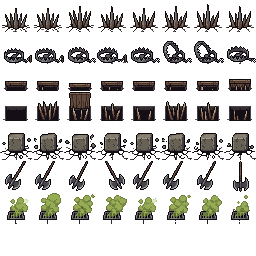
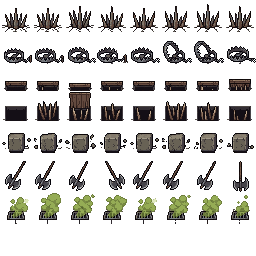
Fällor lite längre ner, stenblocket utan sprickor under
Claude-Session: https://claude.ai/code/session_018ajE8D2FggpF2yZQRYB5KY

Changed region(s): [[0.0, 0.5625, 1.0, 0.625]]

diff --git a/grafik.js b/grafik.js
@@ -134,7 +134,7 @@ G.ritaScen = (canvas, miljoId, fiender, fro, extra, hjaltar, npcer) => {
   if(extra==="resa") sak(sb, 27, 74, 50, 26);                                   // vägvisare vid vägen
   // fällan som just slagit till: en av sex sorter ur npc/fallor.png (spikar, björnsax, fallucka, stenblock, pendelyxa, giftgas)
   if(extra==="falla"){ const fi = G.npcBild("fallor"), [r,x0,x1,y1] = FALLOR_RUTOR[Math.floor(slump((fro||7)*31+5)()*FALLOR_RUTOR.length)];
-    const fx = Math.round(98 - (x0+x1)/2), fy = 77 - y1 + markNer + (FALLA_NER[window.BAKGRUND.namn(bgId, fro)] ?? 0);   // mitt i bild, nederkanten på marken där fötterna står
+    const fx = Math.round(98 - (x0+x1)/2), fy = 80 - y1 + markNer + (FALLA_NER[window.BAKGRUND.namn(bgId, fro)] ?? 0);   // mitt i bild, nederkanten på marken där fötterna står
     if(klarBild(fi)){ ctx.fillStyle="#0005"; ctx.fillRect(fx+x0+2, fy+y1-1, x1-x0-4, 2); G.ritaRuta(ctx, fi, r, fx, fy, 32); } else omRitaVid(fi); }
   if(extra==="hinder:dorr" && !window.BAKGRUND.harEgen(bgId)){ sak(sb, 26, 82, 44, 34); sak(sg, 54, 92, 60, 12); } // låst port med hänglås
   if(extra==="hinder:stege" && !window.BAKGRUND.harEgen(bgId)) sak(sb, 13, 84, 40, 38);
@@ -503,8 +503,8 @@ const VARDSHUS_ELDAR = [ {x:105, y:114, s:9, inne:true},
 // Fällorna i npc/fallor.png: [ruta, vänsterkant, högerkant, nederkant] för det synliga i rutan (32×32).
 // Fallluckorna (rad 3–4) är bortvalda. Fällan ställs med sin nederkant i höjd med hjältarnas fötter.
 // Extra justering av fällans höjd per bakgrundsbild (plus = längre ner), där marken mitt i bild ligger annorlunda än vid sällskapet
-const FALLA_NER = { grotta4:6, svartborgen4:2, skog2:3, kloak1:-2, ruin3:3, grotta6:3, svartborgen5:3, skog5:3, ruin2:3, oken5:3 };
-const FALLOR_RUTOR = [[0,2,30,32],[1,2,30,32],[2,2,30,32],[3,2,30,32],[4,2,30,32],[5,2,30,32],[6,2,30,32],[7,2,30,32],[8,4,32,32],[9,3,32,32],[10,4,32,32],[11,1,32,32],[12,3,32,31],[15,3,32,32],[32,0,32,32],[33,0,32,32],[34,0,32,32],[35,0,32,32],[36,0,32,32],[37,0,32,32],[38,0,32,32],[39,0,32,32],[40,5,26,30],[41,3,23,30],[42,5,24,31],[43,9,29,30],[44,5,25,30],[45,3,23,30],[46,5,24,30],[48,7,29,32],[49,7,29,32],[50,7,31,32],[51,7,31,32],[52,7,29,32],[53,7,31,32],[54,7,30,32],[55,7,26,32]];
+const FALLA_NER = { grotta4:6, svartborgen4:2, skog2:3, kloak1:-5, ruin3:3, oken4:-3, grotta6:3, svartborgen5:3, skog5:3, ruin2:3, oken5:3 };
+const FALLOR_RUTOR = [[0,2,30,32],[1,2,30,32],[2,2,30,32],[3,2,30,32],[4,2,30,32],[5,2,30,32],[6,2,30,32],[7,2,30,32],[8,4,32,32],[9,3,32,32],[10,4,32,32],[11,1,32,32],[12,3,32,31],[15,3,32,32],[32,2,31,25],[33,2,30,25],[34,1,32,25],[35,4,31,25],[36,2,31,25],[37,2,30,25],[38,2,31,25],[39,3,30,25],[40,5,26,30],[41,3,23,30],[42,5,24,31],[43,9,29,30],[44,5,25,30],[45,3,23,30],[46,5,24,30],[48,7,29,32],[49,7,29,32],[50,7,31,32],[51,7,31,32],[52,7,29,32],[53,7,31,32],[54,7,30,32],[55,7,26,32]];
 const ELDAR = { lager_fangelse:{x:262, y:124, s:7}, lager_oken1:{x:165, y:133, s:9}, lager_oken2:{x:141, y:133, s:9}, lager_ute:{x:162, y:134, s:6}, lager_ute2:{x:160, y:153, s:9}, lager_inne:{x:160, y:134, s:9}, lager_inne2:{x:120, y:131, s:9} };
 const ELD = { senast:0, gnistor:[], rok:[] };
 function ritaEld(c, eldar, t){

diff --git a/sw.js b/sw.js
@@ -1,7 +1,7 @@
 // Fantasyvärlden – service worker.
 // Egna filer: nätet först (så uppdateringar syns direkt), cachen som reserv när man är offline.
 // GitHub-API:t (sparfilen) cachas aldrig.
-const CACHE = "fantasyvarlden-v118";
+const CACHE = "fantasyvarlden-v119";
 const SHELL = ["./","./index.html","./spel.js","./regler.js","./varld.js","./hjaltar.js","./figurer.js","./fiendebilder.js","./bakgrund.js","./grafik.js","./manifest.json","./icons/icon-180.png","./icons/icon-192.png","./icons/icon-512.png"];
 self.addEventListener("install", e => { e.waitUntil(caches.open(CACHE).then(c => c.addAll(SHELL)).then(() => self.skipWaiting())); });
 self.addEventListener("activate", e => { e.waitUntil(caches.keys().then(k => Promise.all(k.filter(x => x !== CACHE).map(x => caches.delete(x)))).then(() => self.clients.claim())); });
